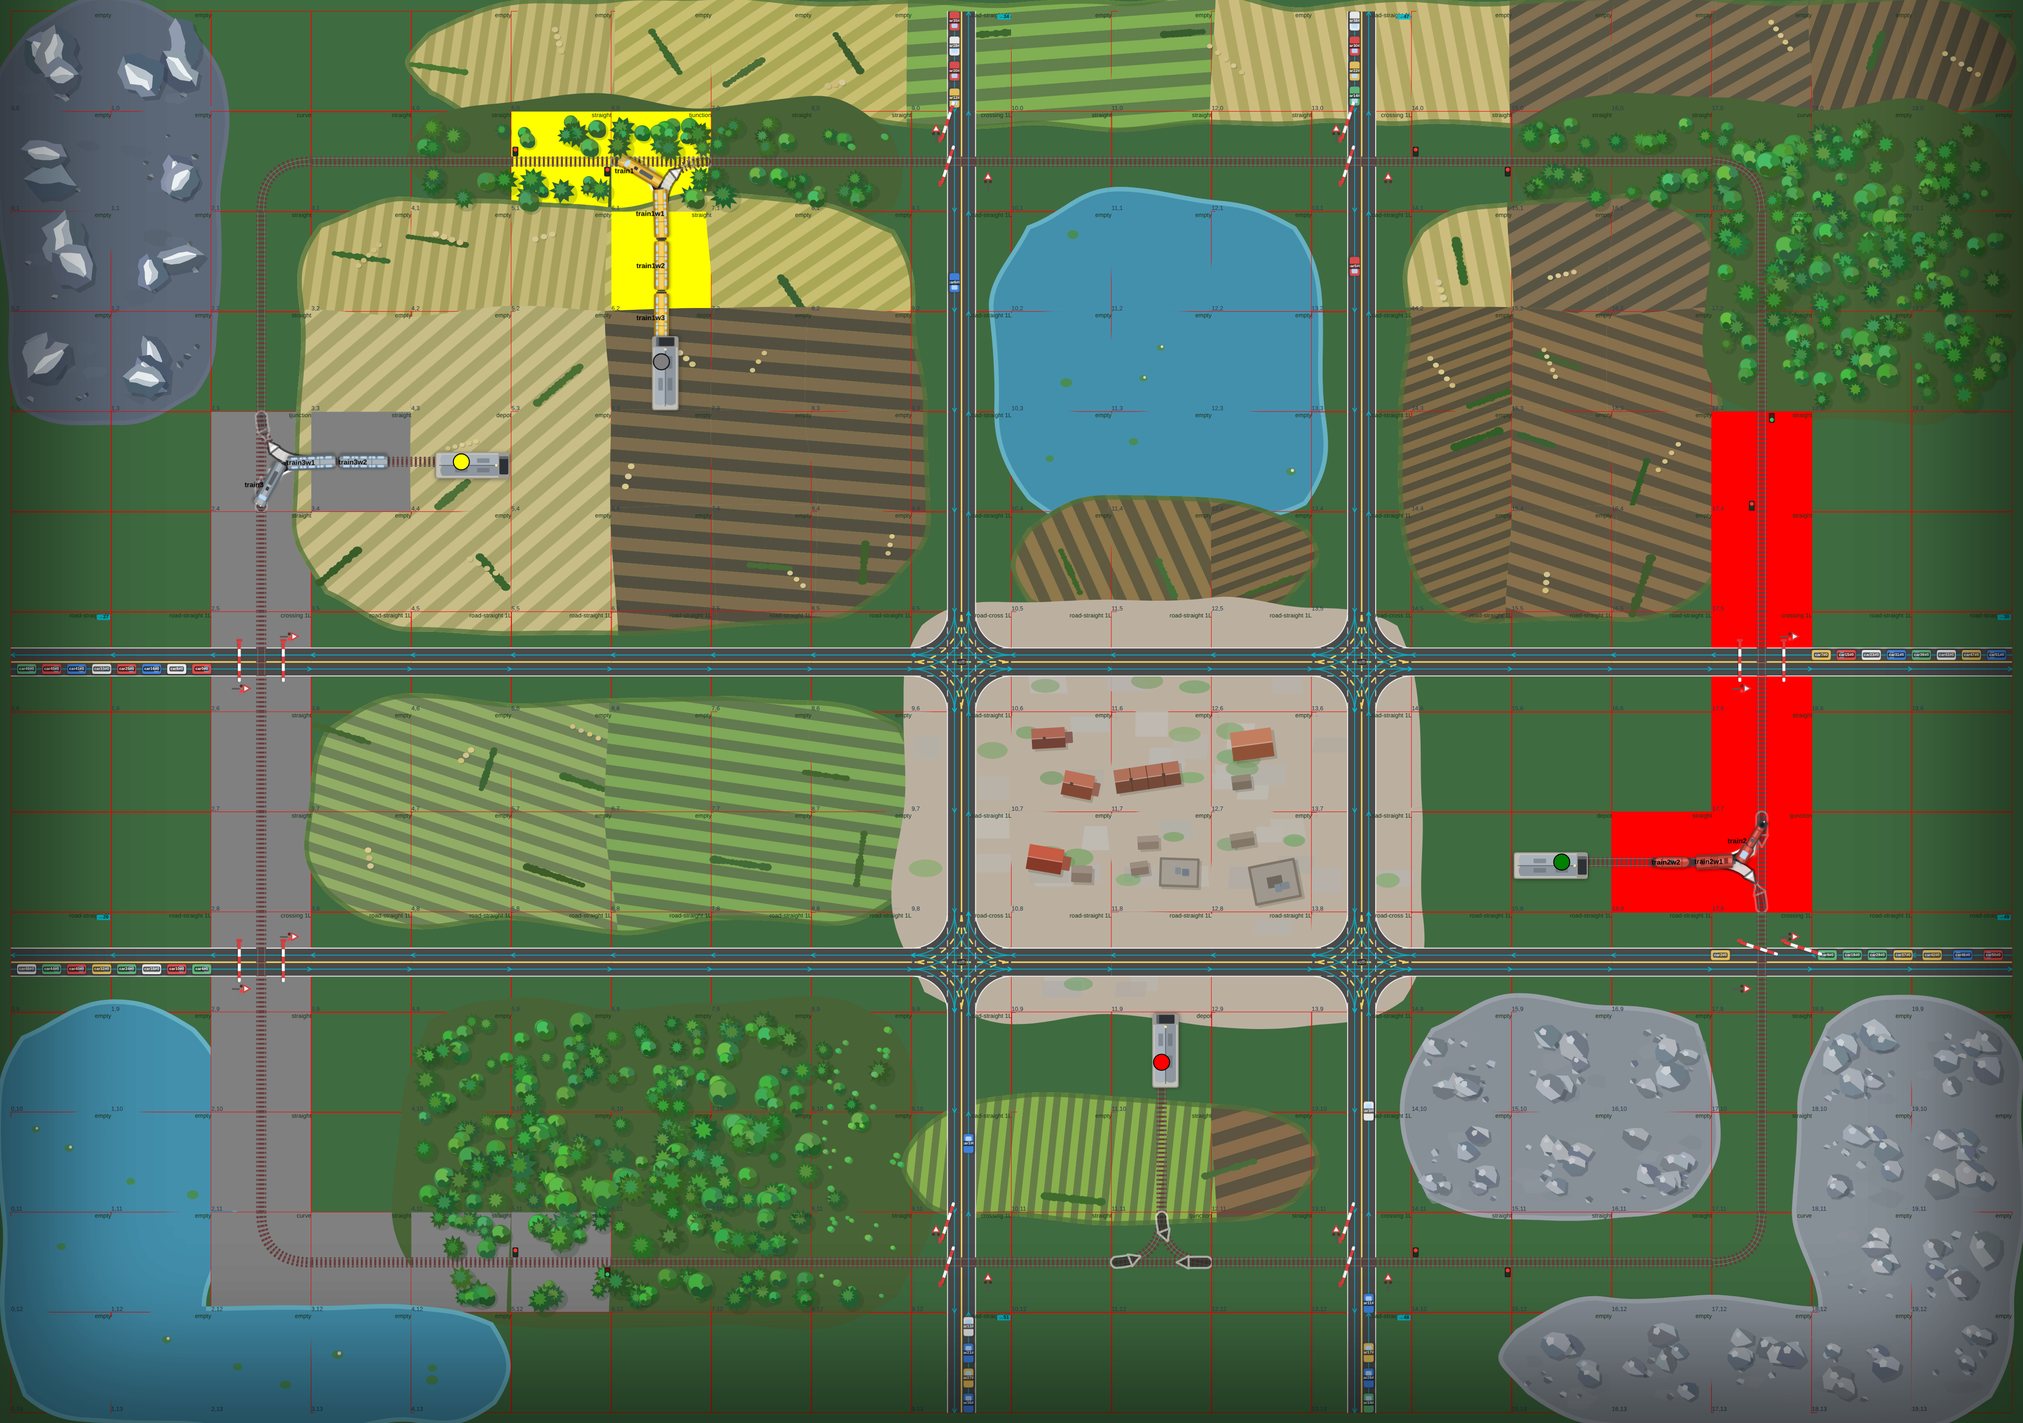
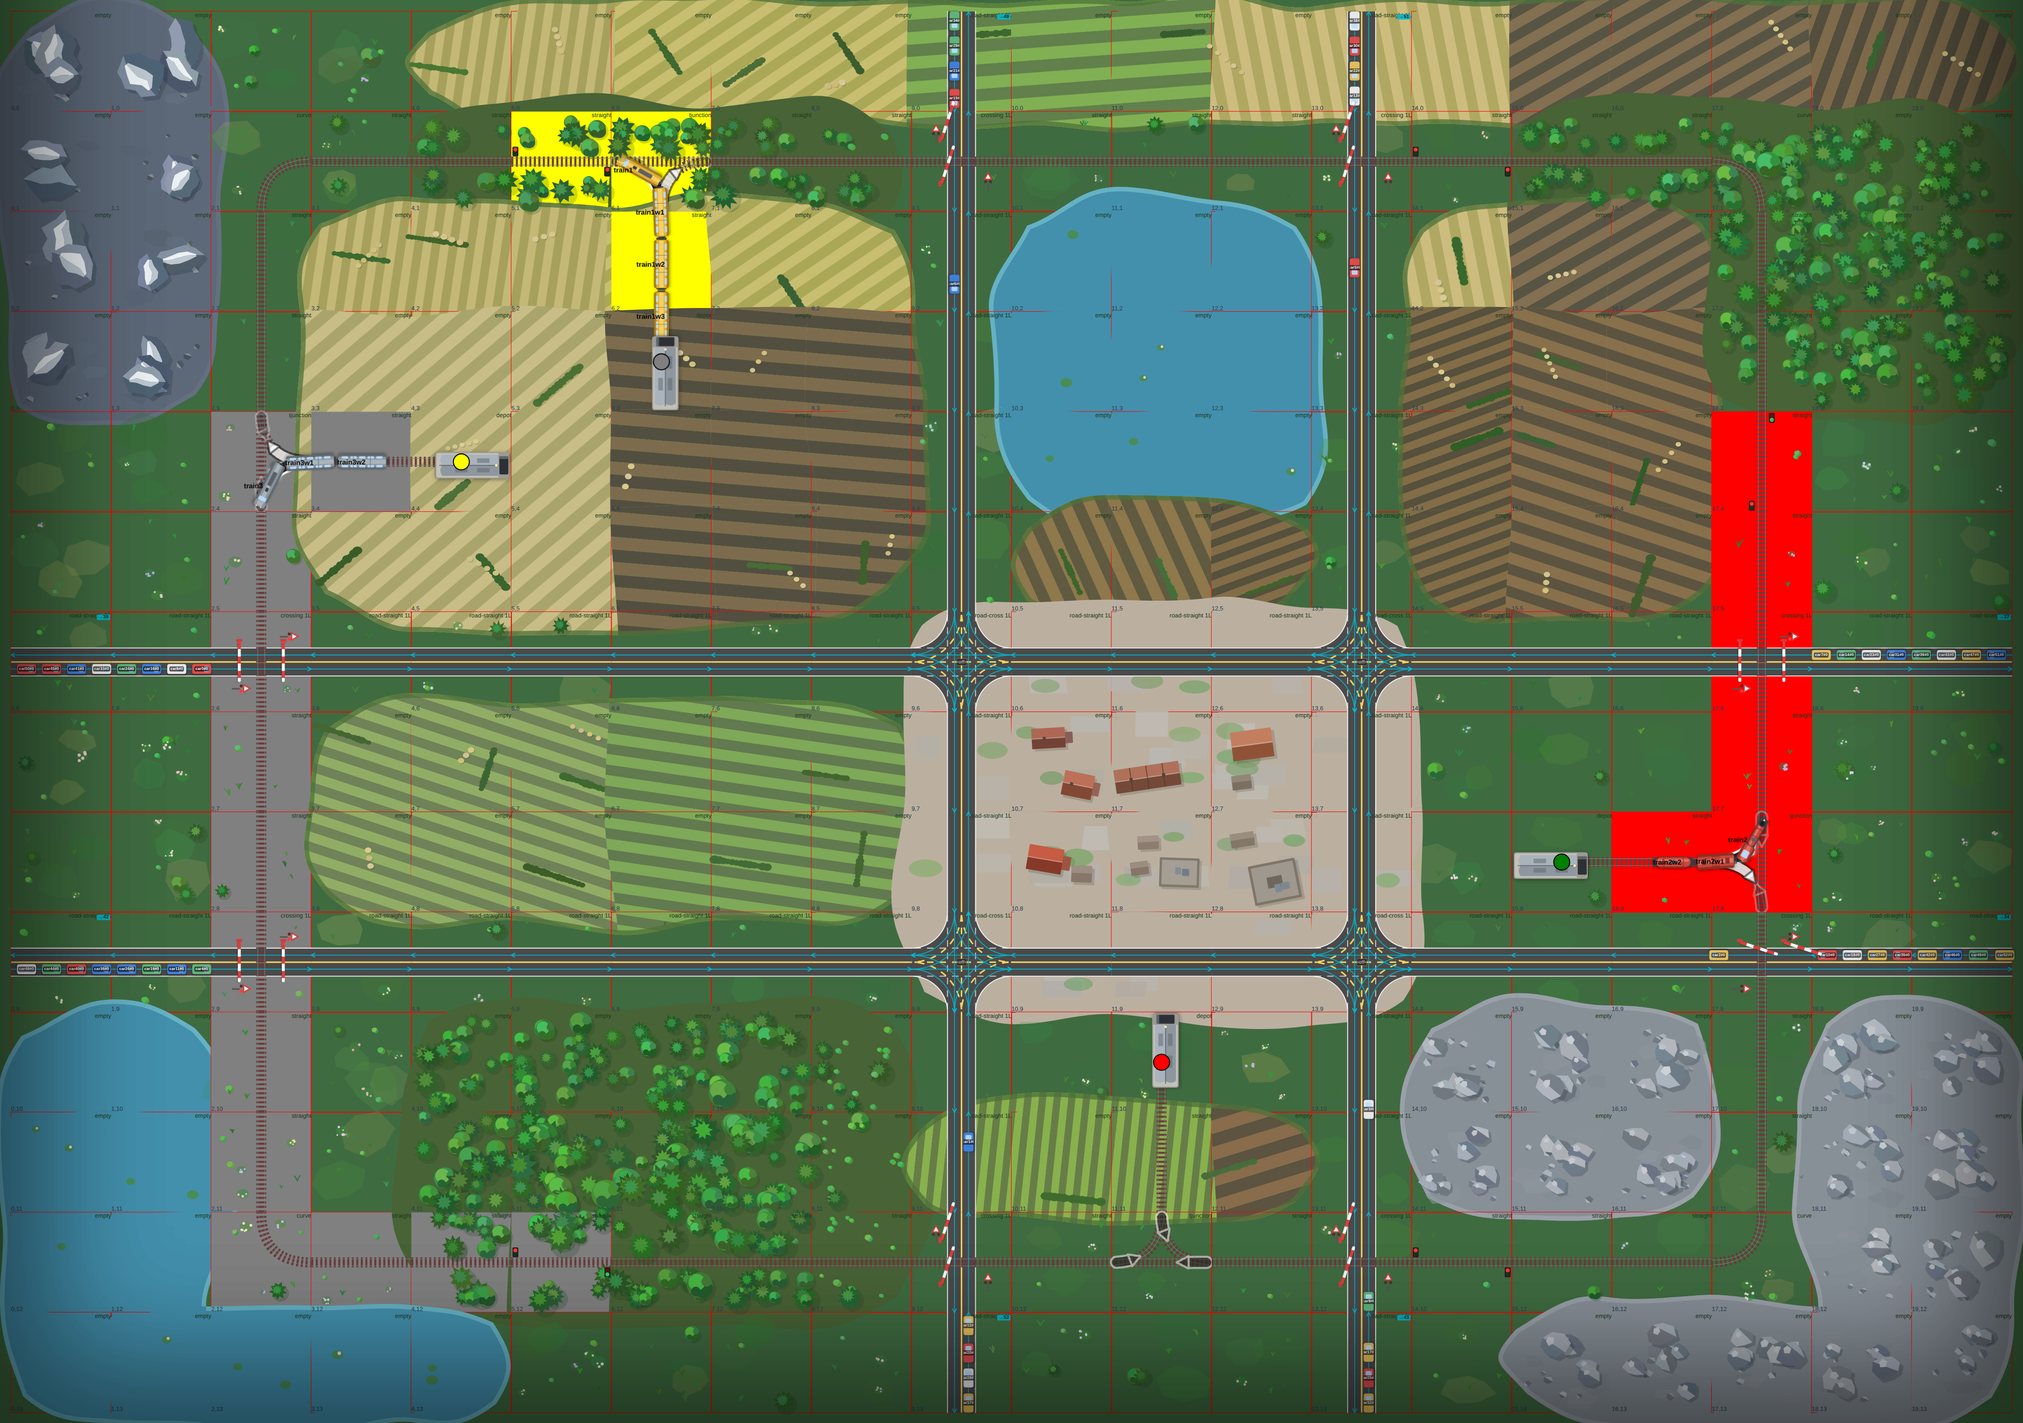
feat(terrain): a meadow on the open green, not a lawn
The open green was flat colour everywhere, which made every board's
unbuilt half look unfinished next to the wood, the lake and the town.

Grass is the one kind that paints NO ground of its own, and that rule
had to survive: a grass fill would cover the world theme's backdrop on
every tile in the game. So the answer is additive — grass now grows
tufts, flower drifts, bushes and the odd thorn tree, over broad
translucent sward blobs that give the sward tone without ever laying a
fill. `buildMeadow` is its own build; it emits no fill, no rim and no
clip, and the test that used to assert "grass draws nothing" now
asserts the thing that actually mattered: every path it lays is
translucent, and none of the patch machinery is involved.

How much grows comes from a world noise field on a four-tile lattice —
the same generator as the glades, with its own salt. One stretch is
close-cropped, another tussocky and flowering, and because the field is
a function of world position the change happens across tiles rather
than at their edges. That is the only shape of unevenness this codebase
allows: per-tile tone variation was tried before and made the grid
legible straight through the colour.

Corridors still apply — a tuft standing in the ballast is as wrong as a
tree, and the verge thins along the line.

Worth stating plainly for whoever picks this up: the real answer to a
boring green is FARMLAND, which covers ground. The meadow only stops
what is left from reading as a lawn.

diff --git a/src/tiles/terrain.ts b/src/tiles/terrain.ts
@@ -15,7 +15,7 @@
 import { TerrainKind, TileCell, parseCoordId } from "@/tiles/model";
 import { segmentPoints } from "@/sim/pathGeometry";
 import { makeRng } from "@/utils/globalHelpers";
-import { Rng, bush, lerp, tree } from "@/utils/foliage";
+import { Rng, bush, green, lerp, tree } from "@/utils/foliage";
 
 export const TERRAIN_KINDS: readonly TerrainKind[] = [
   "grass",
@@ -237,23 +237,50 @@ const TRUNK_CLEAR = 4;
 // Tiles per noise cell: a glade spans a couple of tiles, not a couple of trees.
 const GLADE_CELL = 3;
 
-function fieldCorner(gx: number, gy: number, seed: number): number {
-  return makeRng(hashInts(seed, gx, gy, 0x6e))();
+function fieldCorner(gx: number, gy: number, seed: number, salt: number): number {
+  return makeRng(hashInts(seed, gx, gy, salt))();
 }
 
 const smoothT = (t: number) => t * t * (3 - 2 * t);
 
+/**
+ * Smooth value noise 0..1 at a WORLD position (in tile units), over a lattice
+ * `cell` tiles across. The one shape of unevenness this codebase is allowed:
+ * it is a function of WORLD position, so whatever it drives varies across the
+ * board without ever changing AT a tile boundary — which is what disqualified
+ * per-tile tone variation (see the note by GROUND).
+ */
+function valueNoiseAt(
+  wx: number,
+  wy: number,
+  seed: number,
+  cell: number,
+  salt: number,
+): number {
+  const cx = Math.floor(wx / cell);
+  const cy = Math.floor(wy / cell);
+  const fx = smoothT(wx / cell - cx);
+  const fy = smoothT(wy / cell - cy);
+  const a = fieldCorner(cx, cy, seed, salt);
+  const b = fieldCorner(cx + 1, cy, seed, salt);
+  const c = fieldCorner(cx, cy + 1, seed, salt);
+  const d = fieldCorner(cx + 1, cy + 1, seed, salt);
+  return lerp(lerp(a, b, fx), lerp(c, d, fx), fy);
+}
+
 /** Forest density 0..1 at a WORLD position (in tile units). Deterministic. */
 export function forestDensityAt(wx: number, wy: number, seed: number): number {
-  const cx = Math.floor(wx / GLADE_CELL);
-  const cy = Math.floor(wy / GLADE_CELL);
-  const fx = smoothT(wx / GLADE_CELL - cx);
-  const fy = smoothT(wy / GLADE_CELL - cy);
-  const a = fieldCorner(cx, cy, seed);
-  const b = fieldCorner(cx + 1, cy, seed);
-  const c = fieldCorner(cx, cy + 1, seed);
-  const d = fieldCorner(cx + 1, cy + 1, seed);
-  return lerp(lerp(a, b, fx), lerp(c, d, fx), fy);
+  return valueNoiseAt(wx, wy, seed, GLADE_CELL, 0x6e);
+}
+
+// Open ground is not a lawn. The same noise, on a coarser lattice and its own
+// salt, decides how ROUGH a stretch of meadow is: close-cropped in places,
+// tussocky and flowering in others, with the odd thicket. See `meadowScatter`.
+const MEADOW_CELL = 4;
+
+/** Meadow roughness 0..1 at a WORLD position (in tile units). Deterministic. */
+export function meadowRoughnessAt(wx: number, wy: number, seed: number): number {
+  return valueNoiseAt(wx, wy, seed, MEADOW_CELL, 0xb3);
 }
 
 // How likely a tree at this density is to stand: full wood above, none below,
@@ -1347,6 +1374,66 @@ function building(rng: Rng, scale: number, room: number): { svg: string; reach: 
 // tile can see the other's scatter to prevent it.
 const TOWN_OVERHANG = 10;
 
+// --- Meadow (what grows on plain grass) --------------------------------------
+//
+// Grass is the one kind that paints NO ground of its own, and that has to stay
+// true: a grass rect would cover the world theme's backdrop on every tile in
+// the game (see terrainOf and the note by GROUND). So the answer to "the open
+// green is boring" cannot be a fill — it has to be things ON the green.
+//
+// Everything here is therefore additive scatter and low-contrast marks, and how
+// MUCH of it a stretch gets comes from `meadowRoughnessAt`: a coarse world noise
+// field, so one part of the board is close-cropped and another is tussocky and
+// flowering, and the change happens across tiles rather than at their edges.
+
+/** A clump of grass: a few blades leaning off one root, a shade off the sward. */
+function tuft(rng: Rng, scale: number): string {
+  const n = 3 + Math.floor(rng() * 3);
+  const h = lerp(3.4, 6.2, rng()) * scale;
+  const tone = green(rng, lerp(30, 42, rng()));
+  let out = "";
+  for (let i = 0; i < n; i++) {
+    const a = lerp(-0.9, 0.9, rng());
+    const len = h * lerp(0.65, 1, rng());
+    out += `<path d="M0 0 Q${n1(Math.sin(a) * len * 0.4)} ${n1(-len * 0.6)} ${n1(Math.sin(a) * len)} ${n1(-len)}" stroke="${tone}" stroke-width="${n1(0.9 * scale)}" fill="none" stroke-linecap="round"/>`;
+  }
+  return out;
+}
+
+/** A drift of wildflowers: a low green pad speckled with colour. */
+function flowers(rng: Rng, scale: number): string {
+  const r = lerp(3.4, 6, rng()) * scale;
+  // One hue per drift — a meadow flowers in patches of a species, not in
+  // confetti. Kept pale: saturated dots at this size read as UI, not as plants.
+  const hue = [50, 328, 0, 268][Math.floor(rng() * 4)];
+  const petal = `hsl(${hue} ${Math.round(lerp(30, 55, rng()))}% ${Math.round(lerp(76, 88, rng()))}%)`;
+  let out = `<ellipse cx="0" cy="0" rx="${n1(r)}" ry="${n1(r * 0.8)}" fill="${green(rng, 38)}" opacity="0.5"/>`;
+  const n = 3 + Math.floor(rng() * 4);
+  for (let i = 0; i < n; i++) {
+    out += `<circle cx="${n1(lerp(-r, r, rng()) * 0.8)}" cy="${n1(lerp(-r, r, rng()) * 0.7)}" r="${n1(lerp(0.7, 1.3, rng()) * scale)}" fill="${petal}"/>`;
+  }
+  return out;
+}
+
+/**
+ * A soft patch of sward a shade off the rest — rougher grazing, a damp hollow,
+ * a dry rise. Painted as a low-contrast blob, NEVER as a per-tile tone: the
+ * blob has an outline of its own, so it cannot draw the tile grid the way a
+ * flat per-tile fill does.
+ */
+function sward(rng: Rng): string {
+  const r = lerp(16, 30, rng());
+  const pts = blobPts(rng, r, 7, lerp(0.6, 0.95, rng()));
+  const dry = rng() < 0.3;
+  const tone = dry
+    ? `hsl(${Math.round(lerp(56, 72, rng()))} ${Math.round(lerp(24, 34, rng()))}% ${Math.round(lerp(48, 56, rng()))}%)`
+    : green(rng, lerp(30, 44, rng()));
+  // Low contrast, but not invisible. Under ~0.15 the blobs vanish at board zoom
+  // and the open green is exactly as flat as it was; over ~0.4 they stop being
+  // ground and start being stains.
+  return poly(pts, tone, ` opacity="${(0.2 + rng() * 0.15).toFixed(2)}"`);
+}
+
 // --- Farmland ----------------------------------------------------------------
 //
 // The signature top-down landscape: a patchwork of ploughed strips. Everything
@@ -1732,6 +1819,83 @@ export function tileCanopySvg(
   return buildCached(kind, coordId, neighbours, seed, corridors).canopy;
 }
 
+/**
+ * What grows on plain grass.
+ *
+ * A separate build from `buildGround` because grass is a separate case in every
+ * way that matters: NO PATCH (so no fill, no rim, no outline to keep things
+ * inside — the world theme's backdrop is the ground here and must stay visible),
+ * and density that comes from a world noise field rather than from a per-kind
+ * constant, so open country varies across the board instead of being one flat
+ * green everywhere.
+ *
+ * Corridors still apply: a tuft standing in the ballast is as wrong as a tree
+ * is. Marks and scatter both drop rather than retry — this is filler, and bare
+ * verge beside the line is exactly right.
+ */
+function buildMeadow(
+  coordId: string,
+  seed: number,
+  corridors: Corridor[],
+): { ground: string; scatter: string; canopy: string } {
+  const rng = tileRng(coordId, seed);
+  const { x, y } = parseCoordId(coordId);
+  const room = (p: Pt2): number =>
+    corridors.length ? corridorClearance(p, corridors) : Infinity;
+  // Roughness at the tile's centre. One sample per tile is enough — the field
+  // is smooth over four tiles, so neighbours land close together and a rough
+  // stretch fades into a cropped one over several tiles rather than at a seam.
+  const rough = meadowRoughnessAt(x + 0.5, y + 0.5, seed);
+
+  // Broad, very low-contrast sward blobs first: the tonal variation that stops
+  // a big open expanse reading as one flat colour. They are ground, so they go
+  // under everything and take no part in the depth sort.
+  const marks: string[] = [];
+  const swardCount = 2 + Math.floor(rng() * 2 + rough * 2);
+  for (let i = 0; i < swardCount; i++) {
+    const p = { x: lerp(18, 82, rng()), y: lerp(18, 82, rng()) };
+    if (room(p) < 6) continue;
+    marks.push(`<g transform="translate(${n1(p.x)} ${n1(p.y)})">${sward(rng)}</g>`);
+  }
+
+  // Then what stands in it. Tufts everywhere, flowers and bushes only where the
+  // ground is rough, a lone thorn tree rarer still — so a cropped stretch is
+  // nearly bare and a rough one is properly shaggy.
+  const count = Math.round(lerp(2, 11, rough));
+  const placed: { y: number; g: string }[] = [];
+  for (let i = 0; i < count; i++) {
+    const p = { x: lerp(10, 90, rng()), y: lerp(10, 90, rng()) };
+    const roll = rng();
+    const scale = lerp(0.8, 1.25, rng());
+    let body: string;
+    let foot: number;
+    if (roll < 0.06 + rough * 0.06) {
+      body = tree(rng, scale * 0.34);
+      foot = 11 * scale;
+    } else if (roll < 0.2 + rough * 0.18) {
+      body = bush(rng, scale * 0.4);
+      foot = 7 * scale;
+    } else if (roll < 0.44 + rough * 0.2) {
+      body = flowers(rng, scale);
+      foot = 6 * scale;
+    } else {
+      body = tuft(rng, scale);
+      foot = 4 * scale;
+    }
+    if (room(p) < foot) continue;
+    placed.push({
+      y: p.y,
+      g: `<g transform="translate(${n1(p.x)} ${n1(p.y)})">${body}</g>`,
+    });
+  }
+  placed.sort((a, b) => a.y - b.y);
+  return {
+    ground: marks.join(""),
+    scatter: placed.map(p => p.g).join(""),
+    canopy: "",
+  };
+}
+
 function buildGround(
   kind: TerrainKind,
   coordId: string,
@@ -1740,6 +1904,10 @@ function buildGround(
   corridors: Corridor[],
 ): { ground: string; scatter: string; canopy: string } {
   const base = GROUND[kind];
+  // Grass has no ground of its own to paint, but it does have things growing on
+  // it — a different build entirely, and the only one that must never emit a
+  // fill (see meadowScatter).
+  if (kind === "grass") return buildMeadow(coordId, seed, corridors);
   if (!base) return { ground: "", scatter: "", canopy: "" };
 
   const rng = tileRng(coordId, seed);

diff --git a/tests/unit/tiles/terrain.spec.ts b/tests/unit/tiles/terrain.spec.ts
@@ -325,8 +325,50 @@ describe("terrain", () => {
   });
 
   describe("tileGroundSvg", () => {
-    it("draws nothing for grass, so an untagged world looks untouched", () => {
-      expect(tileGroundSvg("grass", "1,1", around("grass"))).toBe("");
+    it("lays no opaque ground for grass, so the world theme still shows through", () => {
+      // Grass used to draw NOTHING at all. It now grows a meadow (tufts,
+      // flowers, sward blobs — see buildMeadow), and the rule that made
+      // "nothing" right survives intact and is what actually matters: grass
+      // paints no FILL. A grass rect, or a patch outline like every other kind
+      // draws, would cover the theme's backdrop on every tile in the game.
+      const svg = tileGroundSvg("grass", "1,1", around("grass"));
+      expect(svg).not.toContain("<rect");
+      // Whatever it does lay is a translucent blob, never a solid one.
+      const fills = [...svg.matchAll(/<path [^>]*fill="[^"]*"[^>]*>/g)].map(m => m[0]);
+      for (const f of fills) {
+        const op = f.match(/opacity="([\d.]+)"/);
+        expect(op, `opaque ground on grass: ${f}`).not.toBeNull();
+        expect(Number(op![1])).toBeLessThan(0.45);
+      }
+      // And it stays away from the patch machinery entirely: no rim, no clip.
+      expect(svg).not.toContain("clipPath");
+    });
+
+    it("varies the meadow across the board rather than tile by tile", () => {
+      // The answer to "the open green is boring" that does NOT break the rule
+      // above: how much grows on a stretch comes from a coarse world noise
+      // field, so one part of the board is close-cropped and another is
+      // tussocky — and, because the field is smooth over four tiles, adjacent
+      // tiles land close together instead of the density flipping at a seam.
+      const at = (x: number, y: number) =>
+        (tileScatterSvg("grass", `${x},${y}`, around("grass"), 5).match(/<g /g) ?? [])
+          .length;
+      const counts: number[] = [];
+      for (let x = 0; x < 16; x++) counts.push(at(x, 3));
+      expect(Math.max(...counts)).toBeGreaterThan(Math.min(...counts) + 2);
+      // Neighbours differ by less than the whole range: a gradient, not noise.
+      const jumps = counts.slice(1).map((c, i) => Math.abs(c - counts[i]));
+      expect(Math.max(...jumps)).toBeLessThan(Math.max(...counts));
+    });
+
+    it("keeps the meadow off the line like every other kind", () => {
+      const rail: TileCell = {
+        connections: [[Position.Left, Position.Right]],
+      };
+      const open = tileScatterSvg("grass", "4,4", around("grass"), 5);
+      const beside = tileScatterSvg("grass", "4,4", around("grass"), 5, corridorsFor(rail));
+      const n = (s: string) => (s.match(/<g /g) ?? []).length;
+      expect(n(beside)).toBeLessThan(n(open));
     });
 
     it("draws something for every other kind", () => {

diff --git a/docs/KNOWHOW.md b/docs/KNOWHOW.md
@@ -337,6 +337,32 @@ lean — prune as much as you add. This file only stays useful if every task ten
 - Bounds grow: a generated board now renders its full width x height, because
   terrain-only cells count toward `levelBounds`. Intended.
 
+## MEADOW — WHAT GROWS ON PLAIN GRASS (2026-07-28)
+- GRASS STILL PAINTS NO FILL. That rule has not moved and must not: a grass
+  rect (or a patch outline like every other kind draws) covers the world
+  theme's backdrop on EVERY tile in the game. What changed is that grass now
+  grows things — tufts, flower drifts, bushes, the odd thorn tree, plus
+  translucent `sward` blobs — all ADDITIVE. `buildMeadow` is its own build,
+  branched before `buildGround`'s `!base` return; it emits no fill, no rim and
+  no clip, and terrain.spec pins exactly that (every path it lays carries
+  opacity < 0.45).
+- NO PATCH means no containment walk: there is no outline to keep objects
+  inside, so placement is the plain band and the corridors. Corridors DO still
+  apply — a tuft in the ballast is as wrong as a tree.
+- HOW MUCH grows comes from `meadowRoughnessAt` — the same value noise as the
+  glades, on a 4-tile lattice with its own salt. That is the only shape of
+  unevenness allowed here: a function of WORLD position, so it varies across
+  the board and never changes AT a tile boundary (which is what disqualified
+  per-tile tone variation — see the note by GROUND). Close-cropped stretches
+  get ~2 objects, tussocky ones ~11, and flowers/bushes/trees only appear as
+  roughness rises. Pinned: the count varies across a row, and neighbours differ
+  by less than the whole range (a gradient, not noise).
+- `valueNoiseAt(wx, wy, seed, cell, salt)` is the shared generator behind both
+  fields; add a salt rather than a second implementation.
+- THE REAL ANSWER TO "the open green is boring" IS FARMLAND, not the meadow.
+  Fields cover ground; the meadow only stops what is left reading as a lawn.
+  Judge both on a THEMED shot (`npm run shot -- <id> --backdrop --no-debug`) —
+  the flat debug backdrop makes the meadow look far more prominent than it is.
 ## FARMLAND (2026-07-28)
 - 7th kind, buildable, `TERRAIN_BUILD_FACTOR` 1.2 (between grass 1 and forest
   1.5 — you buy the field off the farmer). Wire-through for ANY new kind:
